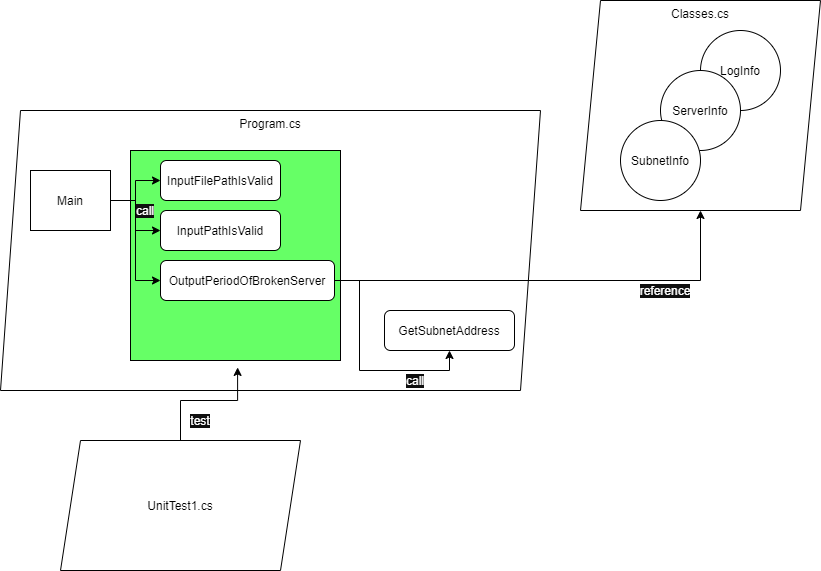
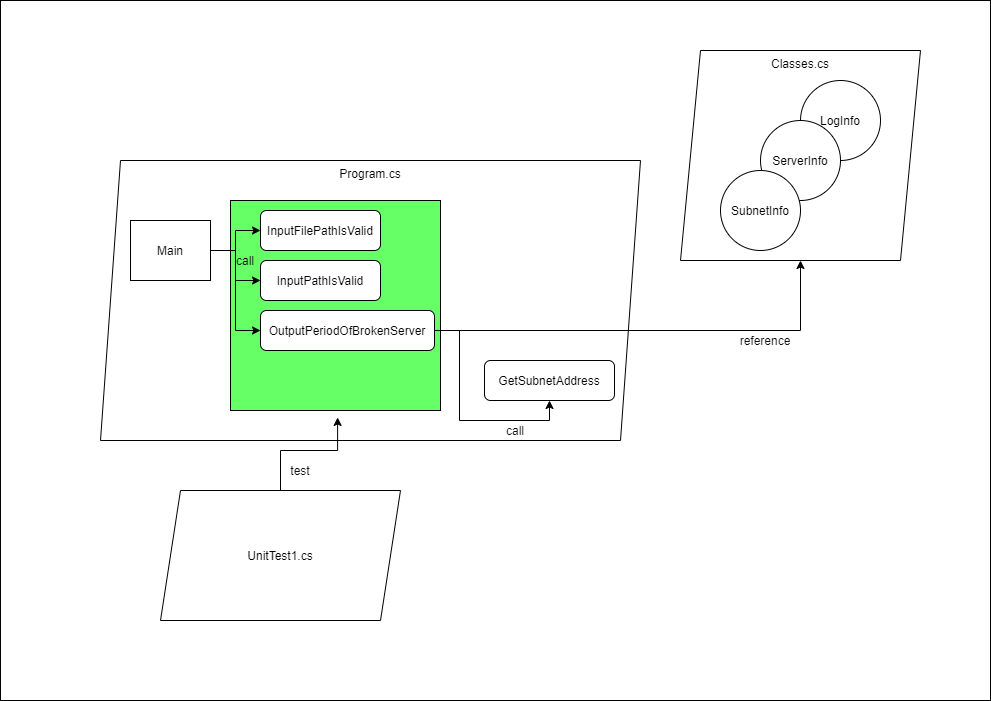
構成図修正

diff --git a/Readme.md b/Readme.md
@@ -47,4 +47,4 @@ N回以上連続してタイムアウトした場合のタイムアウト回数(
 
 # プログラム構成
 以下のような構成となっています。
-[!](./img/CordingTest20210918.png)
+[](./img/CordingTest20210918.png)
